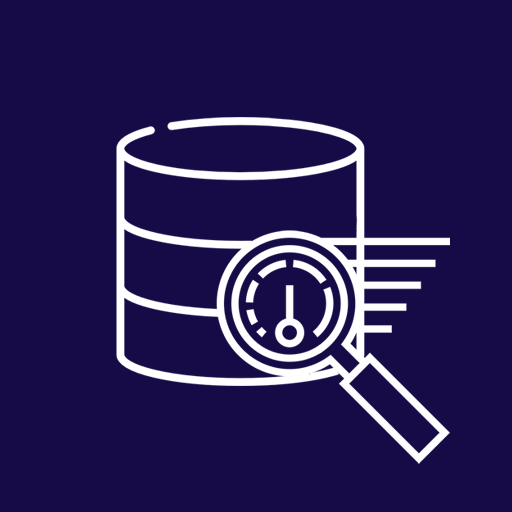
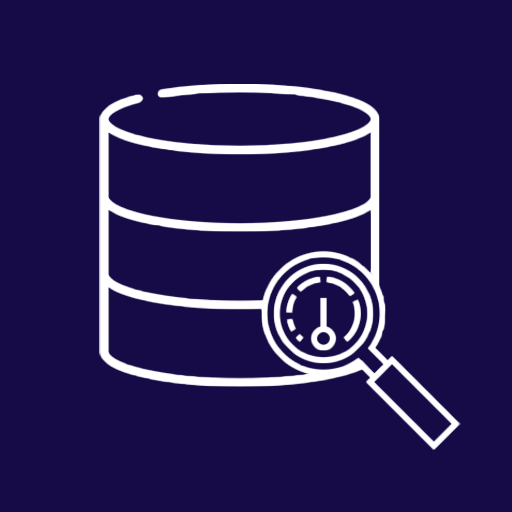
pushed

Changed region(s): [[0.1875, 0.1562, 0.9062, 0.9062]]

diff --git a/BiziLand/index.html b/BiziLand/index.html
@@ -78,14 +78,14 @@
             <div class="col-lg-7 col-md-6  d-flex align-items-center justify-content-center">
               
               <div class="row" id="welcome">
-                <div class="col-10 d-flex align-items-center justify-content-center mt-5">
-                    <h1 style="font-size:55px;font-weight:500;font-family:Love_Trust; color: #7c7c7c;">Technology for good.</h1>
+                <div class="col-9 d-flex align-items-center justify-content-center">
+                    <h1 class="text-center" style="font-size:45px;font-weight:500;font-family:Love_Trust; color: #7c7c7c;">Technology for good.</h1>
                 </div>
-                <div class="col-2 d-flex align-items-center justify-content-center mt-5">
+                <div class="col-2 d-flex align-items-center justify-content-center mt-5 offset-1">
                   <div><img class="img-fluid" src="assets/img/newArrow.png" alt=""></div>
                 </div>
-                <div class="col-12">
-                  <p style="text-align: right; color: #7c7c7c; overflow-wrap: break-word;">Click on an icon to<br> learn more</p>
+                <div class="col-12 offset-1">
+                  <p style="text-align: right; color: #7c7c7c;">Click on an icon to <span style="word-wrap: break-word;">learn more</span></p>
                 </div>
 
               </div>
@@ -103,14 +103,14 @@
                   <div class="item item6"onclick="profile(this.id);" id="default"><img src="assets/img/brandicons/rect.png" alt="Blank Icon" width="60" height="60"></div>
                   <div class="item item7"onclick="profile(this.id);" id="default"><img src="assets/img/brandicons/rect.png" alt="Blank Icon" width="60" height="60"></div>
                   <div class="item item8 anim" onclick="profile(this.id);" id="user"><img src="assets/img/brand_icons/profile.png" alt="Blank Icon" width="60" height="60"></div></a>
-                  <div class="item item9 anim" onclick="profile(this.id)" id="software"><img src="assets/img/brand_icons/rfid.png" alt="Blank Icon" width="60" height="60"></div>
+                  <div class="item item9 anim" onclick="profile(this.id)" id="timed"><img src="assets/img/brand_icons/timed.png" alt="Blank Icon" width="60" height="60"></div>
                   <div class="item item10 anim" onclick="profile(this.id)" id="key"><img src="assets/img/brand_icons/accesscontrol.png" alt="Blank Icon" width="60" height="60"></div>
                   <div class="item item11 anim" onclick="profile(this.id)" id="shield"><img src="assets/img/brand_icons/research.png" alt="Blank Icon" width="60" height="60"></div>
                   <div class="item item12"onclick="profile(this.id);" id="default"><img src="assets/img/brandicons/rect.png" alt="Blank Icon" width="60" height="60"></div>
                   <div class="item item13"onclick="profile(this.id);" id="default"><img src="assets/img/brandicons/rect.png" alt="Blank Icon" width="60" height="60"></div>
                   <div class="item item14 anim" onclick="profile(this.id)" id="configurable"><img src="assets/img/brand_icons/support.png" alt="Blank Icon" width="60" height="60"></div>
                   <div class="item item15 anim" onclick="profile(this.id)" id="cctv"><img src="assets/img/brand_icons/cctv.png" alt="Blank Icon" width="60" height="60"></div>
-                  <div class="item item16 anim" onclick="profile(this.id)" id="database"><img src="assets/img/brand_icons/database.png" alt="Blank Icon" width="60" height="60"></div>
+                  <div class="item item16 anim" onclick="profile(this.id)" id="accuracy"><img src="assets/img/brand_icons/accuracy.png" alt="Blank Icon" width="60" height="60"></div>
                   <div class="item item17 anim" onclick="profile(this.id)" id="police"><img src="assets/img/brand_icons/police.png" alt="Blank Icon" width="60" height="60"></div>
                   <div class="item item18"onclick="profile(this.id);" id="default"><img src="assets/img/brandicons/rect.png" alt="Blank Icon" width="60" height="60"></div>
                   <div class="item item19"onclick="profile(this.id);" id="default"><img src="assets/img/brandicons/rect.png" alt="Blank Icon" width="60" height="60"></div>
@@ -121,7 +121,7 @@
                   <div class="item item24"onclick="profile(this.id);" id="default"><img src="assets/img/brandicons/rect.png" alt="Blank Icon" width="60" height="60"></div>
                   <div class="item item25"onclick="profile(this.id);" id="default"><img src="assets/img/brandicons/rect.png" alt="Blank Icon" width="60" height="60"></div>
                   <div class="item item26 anim" onclick="profile(this.id)" id="network"><img src="assets/img/brand_icons/connectivity.png" alt="Blank Icon" width="60" height="60"></div>
-                  <div class="item item27 anim" onclick="profile(this.id)" id="accuracy"><img src="assets/img/brand_icons/database.png" alt="Blank Icon" width="60" height="60"></div>
+                  <div class="item item27 anim" onclick="profile(this.id)" id="database"><img src="assets/img/brand_icons/database.png" alt="Blank Icon" width="60" height="60"></div>
                   <div class="item item28 anim" onclick="profile(this.id)" id="log"><img src="assets/img/brand_icons/activityLogging.png" alt="Blank Icon" width="60" height="60"></div>
                   <div class="item item29 anim" onclick="profile(this.id)" id="message"><img src="assets/img/brand_icons/message.png" alt="Blank Icon" width="60" height="60"></div>
                   <div class="item item30"onclick="profile(this.id);" id="default"><img src="assets/img/brandicons/rect.png" alt="Blank Icon" width="60" height="60"></div>
@@ -1392,17 +1392,17 @@
           // Add ID and content
         // newNode.id = 'salutation';
         currentNode.innerHTML =
-          '<div class="row fadeIn"> <div class="col-6"> <img src="assets/img/DescriptionImage/profile.png" class="img-fluid" alt=""></div>' +
+          '<div class="row fadeIn"> <div class="col-6"> <img src="assets/img/brand_icons/gradients/profile.png" class="img-fluid" alt=""></div>' +
           '<div class="col-6" style="padding-top:5%;"><h1 data-aos="fade-left" data-aos-delay="100" style="font-size:40px">Secured Guest Data</h1><p data-aos="fade-right" data-aos-delay="100"  style="margin-top:16px">Lorem ipsum dolor sit amet, consectetur adipiscing elit, sed do eiusmod tempor incididunt ut labore et dolore magna aliqua.</p></div></div>';
 
       break;
 
-      case "software":
+      case "timed":
 
           // Add ID and content
         // newNode.id = 'salutation';
         currentNode.innerHTML =
-          '<div class="row fadeIn"> <div class="col-6"> <img src="assets/img/DescriptionImage/software.png" class="img-fluid" alt=""></div>' +
+          '<div class="row fadeIn"> <div class="col-6"> <img src="assets/img/brand_icons/gradients/timed.png" class="img-fluid" alt=""></div>' +
           '<div class="col-6" style="padding-top:5%;"><h1 data-aos="fade-left" data-aos-delay="100" style="font-size:40px">Secured Guest Data</h1><p p data-aos="fade-right" data-aos-delay="100" style="margin-top:16px">Lorem ipsum dolor sit amet, consectetur adipiscing elit, sed do eiusmod tempor incididunt ut labore et dolore magna aliqua.</p></div></div>';
 
       break;
@@ -1412,7 +1412,127 @@
       // Add ID and content
       // newNode.id = 'salutation';
       currentNode.innerHTML =
-      '<div class="row fadeIn"> <div class="col-6"> <img src="assets/img/DescriptionImage/key.png" class="img-fluid" alt=""></div>' +
+      '<div class="row fadeIn"> <div class="col-6"> <img src="assets/img/brand_icons/gradients/accesscontrol.png" class="img-fluid" alt=""></div>' +
+      '<div class="col-6" style="padding-top:5%;"><h1 data-aos="fade-left" data-aos-delay="100" style="font-size:40px">Secured Guest Data</h1><p p data-aos="fade-right" data-aos-delay="100" style="margin-top:16px">Lorem ipsum dolor sit amet, consectetur adipiscing elit, sed do eiusmod tempor incididunt ut labore et dolore magna aliqua.</p></div></div>';
+
+      break;
+
+      case "configurable":
+
+      // Add ID and content
+      // newNode.id = 'salutation';
+      currentNode.innerHTML =
+      '<div class="row fadeIn"> <div class="col-6"> <img src="assets/img/brand_icons/gradients/support.png" class="img-fluid" alt=""></div>' +
+      '<div class="col-6" style="padding-top:5%;"><h1 data-aos="fade-left" data-aos-delay="100" style="font-size:40px">Secured Guest Data</h1><p p data-aos="fade-right" data-aos-delay="100" style="margin-top:16px">Lorem ipsum dolor sit amet, consectetur adipiscing elit, sed do eiusmod tempor incididunt ut labore et dolore magna aliqua.</p></div></div>';
+
+      break;
+
+      case "cctv":
+
+      // Add ID and content
+      // newNode.id = 'salutation';
+      currentNode.innerHTML =
+      '<div class="row fadeIn"> <div class="col-6"> <img src="assets/img/brand_icons/gradients/cctv.png" class="img-fluid" alt=""></div>' +
+      '<div class="col-6" style="padding-top:5%;"><h1 data-aos="fade-left" data-aos-delay="100" style="font-size:40px">Secured Guest Data</h1><p p data-aos="fade-right" data-aos-delay="100" style="margin-top:16px">Lorem ipsum dolor sit amet, consectetur adipiscing elit, sed do eiusmod tempor incididunt ut labore et dolore magna aliqua.</p></div></div>';
+
+      break;
+
+      case "accuracy":
+
+      // Add ID and content
+      // newNode.id = 'salutation';
+      currentNode.innerHTML =
+      '<div class="row fadeIn"> <div class="col-6"> <img src="assets/img/brand_icons/gradients/accuracy.png" class="img-fluid" alt=""></div>' +
+      '<div class="col-6" style="padding-top:5%;"><h1 data-aos="fade-left" data-aos-delay="100" style="font-size:40px">Secured Guest Data</h1><p p data-aos="fade-right" data-aos-delay="100" style="margin-top:16px">Lorem ipsum dolor sit amet, consectetur adipiscing elit, sed do eiusmod tempor incididunt ut labore et dolore magna aliqua.</p></div></div>';
+
+      break;
+
+      case "police":
+
+      // Add ID and content
+      // newNode.id = 'salutation';
+      currentNode.innerHTML =
+      '<div class="row fadeIn"> <div class="col-6"> <img src="assets/img/brand_icons/gradients/police.png" class="img-fluid" alt=""></div>' +
+      '<div class="col-6" style="padding-top:5%;"><h1 data-aos="fade-left" data-aos-delay="100" style="font-size:40px">Secured Guest Data</h1><p p data-aos="fade-right" data-aos-delay="100" style="margin-top:16px">Lorem ipsum dolor sit amet, consectetur adipiscing elit, sed do eiusmod tempor incididunt ut labore et dolore magna aliqua.</p></div></div>';
+
+      break;
+
+      case "rfid":
+
+      // Add ID and content
+      // newNode.id = 'salutation';
+      currentNode.innerHTML =
+      '<div class="row fadeIn"> <div class="col-6"> <img src="assets/img/brand_icons/gradients/rfid.png" class="img-fluid" alt=""></div>' +
+      '<div class="col-6" style="padding-top:5%;"><h1 data-aos="fade-left" data-aos-delay="100" style="font-size:40px">Secured Guest Data</h1><p p data-aos="fade-right" data-aos-delay="100" style="margin-top:16px">Lorem ipsum dolor sit amet, consectetur adipiscing elit, sed do eiusmod tempor incididunt ut labore et dolore magna aliqua.</p></div></div>';
+
+      break;
+
+      case "environmental":
+
+      // Add ID and content
+      // newNode.id = 'salutation';
+      currentNode.innerHTML =
+      '<div class="row fadeIn"> <div class="col-6"> <img src="assets/img/brand_icons/gradients/ecofriendly.png" class="img-fluid" alt=""></div>' +
+      '<div class="col-6" style="padding-top:5%;"><h1 data-aos="fade-left" data-aos-delay="100" style="font-size:40px">Secured Guest Data</h1><p p data-aos="fade-right" data-aos-delay="100" style="margin-top:16px">Lorem ipsum dolor sit amet, consectetur adipiscing elit, sed do eiusmod tempor incididunt ut labore et dolore magna aliqua.</p></div></div>';
+
+      break;
+
+      case "faceScan":
+
+      // Add ID and content
+      // newNode.id = 'salutation';
+      currentNode.innerHTML =
+      '<div class="row fadeIn"> <div class="col-6"> <img src="assets/img/brand_icons/gradients/facerec.png" class="img-fluid" alt=""></div>' +
+      '<div class="col-6" style="padding-top:5%;"><h1 data-aos="fade-left" data-aos-delay="100" style="font-size:40px">Secured Guest Data</h1><p p data-aos="fade-right" data-aos-delay="100" style="margin-top:16px">Lorem ipsum dolor sit amet, consectetur adipiscing elit, sed do eiusmod tempor incididunt ut labore et dolore magna aliqua.</p></div></div>';
+
+      break;
+
+      case "analysis":
+
+      // Add ID and content
+      // newNode.id = 'salutation';
+      currentNode.innerHTML =
+      '<div class="row fadeIn"> <div class="col-6"> <img src="assets/img/brand_icons/gradients/analytics.png" class="img-fluid" alt=""></div>' +
+      '<div class="col-6" style="padding-top:5%;"><h1 data-aos="fade-left" data-aos-delay="100" style="font-size:40px">Secured Guest Data</h1><p p data-aos="fade-right" data-aos-delay="100" style="margin-top:16px">Lorem ipsum dolor sit amet, consectetur adipiscing elit, sed do eiusmod tempor incididunt ut labore et dolore magna aliqua.</p></div></div>';
+
+      break;
+
+      case "network":
+
+      // Add ID and content
+      // newNode.id = 'salutation';
+      currentNode.innerHTML =
+      '<div class="row fadeIn"> <div class="col-6"> <img src="assets/img/brand_icons/gradients/connectivity.png" class="img-fluid" alt=""></div>' +
+      '<div class="col-6" style="padding-top:5%;"><h1 data-aos="fade-left" data-aos-delay="100" style="font-size:40px">Secured Guest Data</h1><p p data-aos="fade-right" data-aos-delay="100" style="margin-top:16px">Lorem ipsum dolor sit amet, consectetur adipiscing elit, sed do eiusmod tempor incididunt ut labore et dolore magna aliqua.</p></div></div>';
+
+      break;
+
+      case "database":
+
+      // Add ID and content
+      // newNode.id = 'salutation';
+      currentNode.innerHTML =
+      '<div class="row fadeIn"> <div class="col-6"> <img src="assets/img/brand_icons/gradients/database.png" class="img-fluid" alt=""></div>' +
+      '<div class="col-6" style="padding-top:5%;"><h1 data-aos="fade-left" data-aos-delay="100" style="font-size:40px">Secured Guest Data</h1><p p data-aos="fade-right" data-aos-delay="100" style="margin-top:16px">Lorem ipsum dolor sit amet, consectetur adipiscing elit, sed do eiusmod tempor incididunt ut labore et dolore magna aliqua.</p></div></div>';
+
+      break;
+
+      case "log":
+
+      // Add ID and content
+      // newNode.id = 'salutation';
+      currentNode.innerHTML =
+      '<div class="row fadeIn"> <div class="col-6"> <img src="assets/img/brand_icons/gradients/activitylogging.png" class="img-fluid" alt=""></div>' +
+      '<div class="col-6" style="padding-top:5%;"><h1 data-aos="fade-left" data-aos-delay="100" style="font-size:40px">Secured Guest Data</h1><p p data-aos="fade-right" data-aos-delay="100" style="margin-top:16px">Lorem ipsum dolor sit amet, consectetur adipiscing elit, sed do eiusmod tempor incididunt ut labore et dolore magna aliqua.</p></div></div>';
+
+      break;
+
+      case "message":
+
+      // Add ID and content
+      // newNode.id = 'salutation';
+      currentNode.innerHTML =
+      '<div class="row fadeIn"> <div class="col-6"> <img src="assets/img/brand_icons/gradients/message.png" class="img-fluid" alt=""></div>' +
       '<div class="col-6" style="padding-top:5%;"><h1 data-aos="fade-left" data-aos-delay="100" style="font-size:40px">Secured Guest Data</h1><p p data-aos="fade-right" data-aos-delay="100" style="margin-top:16px">Lorem ipsum dolor sit amet, consectetur adipiscing elit, sed do eiusmod tempor incididunt ut labore et dolore magna aliqua.</p></div></div>';
 
       break;
@@ -1422,24 +1542,16 @@
       // Add ID and content
       // newNode.id = 'salutation';
       currentNode.innerHTML =
-      '<div class="row fadeIn"> <div class="col-6"> <img src="assets/img/DescriptionImage/shield.png" class="img-fluid" alt=""></div>' +
+      '<div class="row fadeIn"> <div class="col-6"> <img src="assets/img/brand_icons/gradients/eventlog.png" class="img-fluid" alt=""></div>' +
       '<div class="col-6" style="padding-top:5%;"><h1 data-aos="fade-left" data-aos-delay="100" style="font-size:40px">Secured Guest Data</h1><p p data-aos="fade-right" data-aos-delay="100" style="margin-top:16px">Lorem ipsum dolor sit amet, consectetur adipiscing elit, sed do eiusmod tempor incididunt ut labore et dolore magna aliqua.</p></div></div>';
 
       break;
 
+
       case "default":
 
       currentNode.innerHTML =
-
-      
-      '<div class="fadeIn col-10 d-flex align-items-center justify-content-center mt-5">' +
-          '<h1 style="font-size:55px;font-weight:500;font-family:Love_Trust; color: #7c7c7c;">Technology for good.</h1>' +
-      '</div>' +
-      '<div class="fadeIn col-2 d-flex align-items-center justify-content-center mt-5">' +
-        '<div><img class="img-fluid" src="assets/img/newArrow.png" alt=""></div>' +
-      '</div>' +
-      ' <div class="fadeIn col-12">' +
-        '<p style="text-align: right; color: #7c7c7c; overflow-wrap: break-word;">Click on an icon to<br> learn more</p>' +
+      '<div class="fadeIn"><h1 class="text-center" style="font-size:50px;font-weight:500;font-family:Love_Trust;">Technology For Good.</h1>' +
       '</div>';
     }
 

diff --git a/BiziLand/assets/css/cse.css b/BiziLand/assets/css/cse.css
@@ -26,8 +26,8 @@
  .anim:hover{
     transform:scale(1.2);
     transition: all .4s ease-in-out;
-    -webkit-box-shadow: 5px 3px 13px 1px rgba(0,0,0,0.34); 
-   box-shadow: 5px 3px 13px 1px rgba(0,0,0,0.34);
+    -webkit-box-shadow: 5px 3px 13px 1px rgba(0, 0, 0, 0.27); 
+   box-shadow: 5px 3px 13px 1px rgba(0, 0, 0, 0.27);
    cursor: pointer;
 
  }

diff --git a/BiziLand/assets/css/style.css b/BiziLand/assets/css/style.css
@@ -507,12 +507,12 @@ h1, h2, h3, h4, h5, h6 {
 
 #hero .container {
   position: relative;
-  padding: 50px 0 50px 0;
+  padding-top: 50px;
 }
 
 @media (max-width: 992px) {
   #hero .container {
-    padding: 58px 0 58px 0;
+    padding-top: 58px;
   }
 }
 
